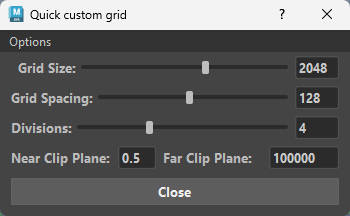
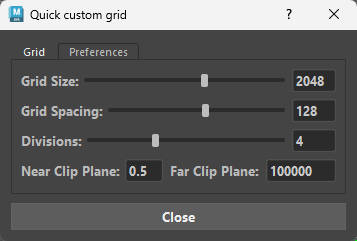
updated docs
updated docs

diff --git a/docs/Quick Custom Grid/index.md b/docs/Quick Custom Grid/index.md
@@ -1,7 +1,7 @@
 # **<span style="color:rgb(144, 137, 235);">Quick Custom Grid</span>** :tools:
 
 
-![Batch Exporter Window](images/Quick_Custom_Grid_main.jpg){ .img-small } 
+![Batch Exporter Window](images/Quick_Custom_Grid_Main_1.png){ .img-large } 
 
 ??? Tip "Maya Versions"
     *Tested in Maya 2022-2027*
@@ -39,17 +39,32 @@ It features two distinct operating modes to suit different workflows: a standard
     </figure>
 
 
-## **<span style="color:rgb(144, 137, 235);">Options Menu</span>**
+## **<span style="color:rgb(144, 137, 235);">Preferences</span>**
 
-![Batch Exporter Window](images/Quick_Custom_Grid_options.jpg){ .img-small } 
+![Batch Exporter Window](images/Quick_Custom_Grid_Preferences.jpg){ .img-small } 
+
+
+
+<span style="color:rgb(144, 137, 235);">**Interpolation**</span>
 
 - <span style="color:rgb(144, 137, 235);">Use Power of 2 (Checkbox)</span>: Found in the top menu bar under "Options". 
 
     When activated, all grid size and spacing calculations are locked to powers of two (e.g., 8, 16, 32, 64, 128, 256, 512, 1024, 2048).
 
-- <span style="color:rgb(144, 137, 235);">Persistent Preferences</span>: The tool creates a Quick_Custom_Grid folder in Maya's user preference directory and saves a JSON file. 
+<span style="color:rgb(144, 137, 235);">**Display/Color**</span>
 
-    This ensures the tool remembers your "Power of 2" preference the next time you open it.
+- Apart from **Use Power of 2**, every option here mirrors Maya's **Grid Options** — the tool simply applies changes on the fly.
+
+![Batch Exporter Window](images/Quick_Custom_Grid_same_grid_options.jpg){ .img-medium .img-centered} 
+
+<figure>
+<img src="images/Quick_Custom_Grid_Preferences_1.gif" class="img-medium" alt="Quick Custom Grid">
+<figcaption><span style="color:rgba(22, 165, 110, 1);">Adjusting grid options</span></span></figcaption>
+</figure>
+
+
+
+<span style="color:rgb(144, 137, 235);">**Documentation/Store**</span>
 
 * <span style="color:rgb(144, 137, 235);">Documentation</span> - Opens a link to the documentation.
 
